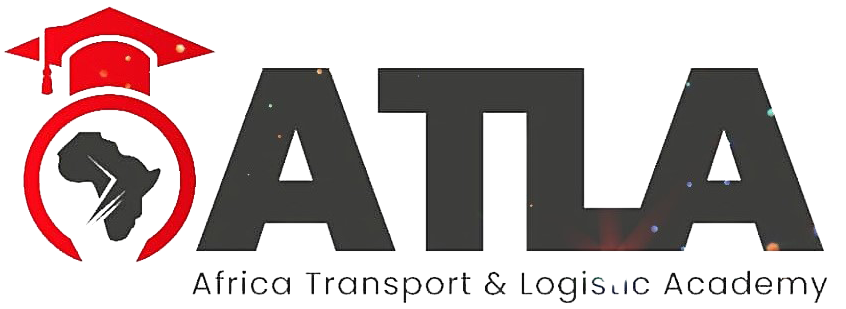
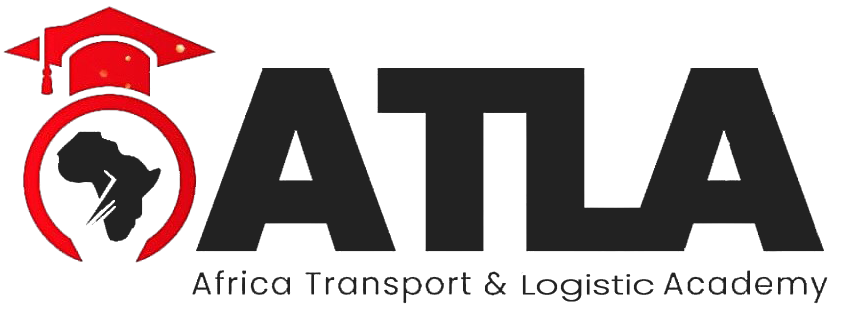
first commit second

diff --git a/app/Providers/Filament/AdminPanelProvider.php b/app/Providers/Filament/AdminPanelProvider.php
@@ -61,7 +61,8 @@ class AdminPanelProvider extends PanelProvider
             ])
             ->viteTheme('resources/css/filament/admin/theme.css')
             //->breadcrumbs(false)
-            ->brandLogo(asset('icons/logo.png'))
+            ->brandLogo(asset('assets/images/icon.png'))
+            ->darkModeBrandLogo(asset('assets/images/icon-2.png'))
             ->brandLogoHeight('60px')
             ->favicon(asset('icons/favicon.png'))
             ->discoverClusters(in: app_path('Filament/Clusters'), for: 'App\\Filament\\Clusters');
